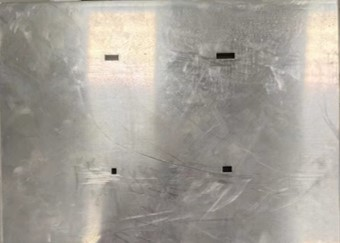
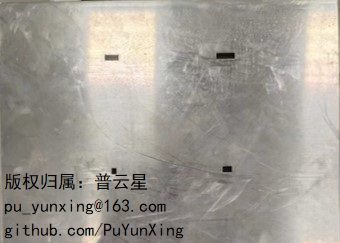
commit new file

diff --git a/readme.md b/readme.md
@@ -6,7 +6,7 @@
 
 ***Readers are welcome to engage in discussions with me. Contact email: pu_yunxing@163.com***
 
-
+***Copyright Notice: Images from this project are prohibited from unauthorized use.***
 
 ## Ⅰ. Background
 
